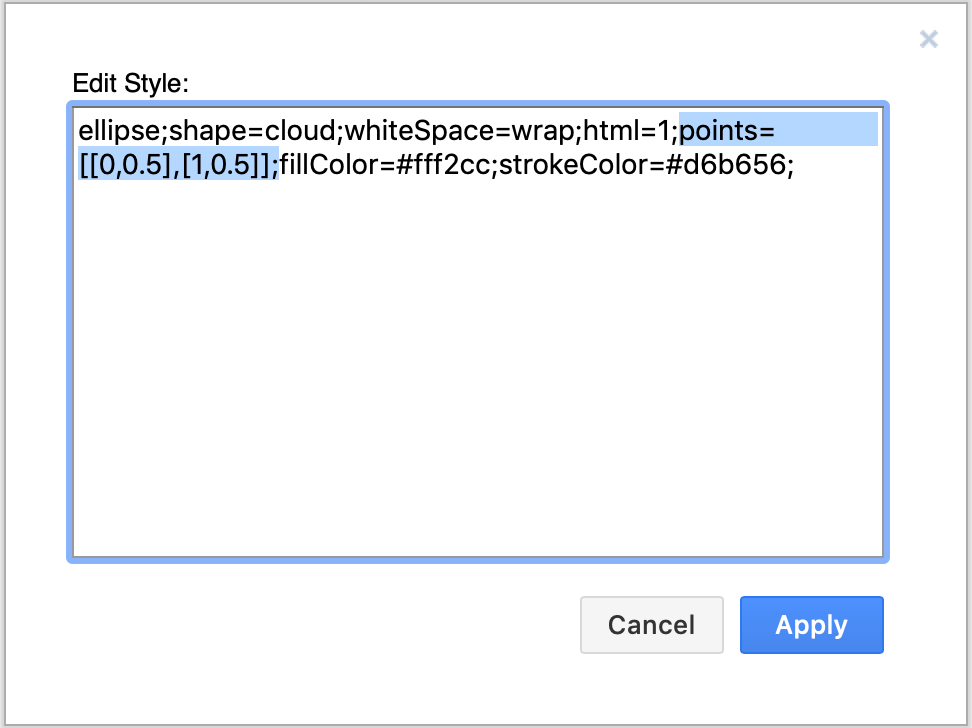
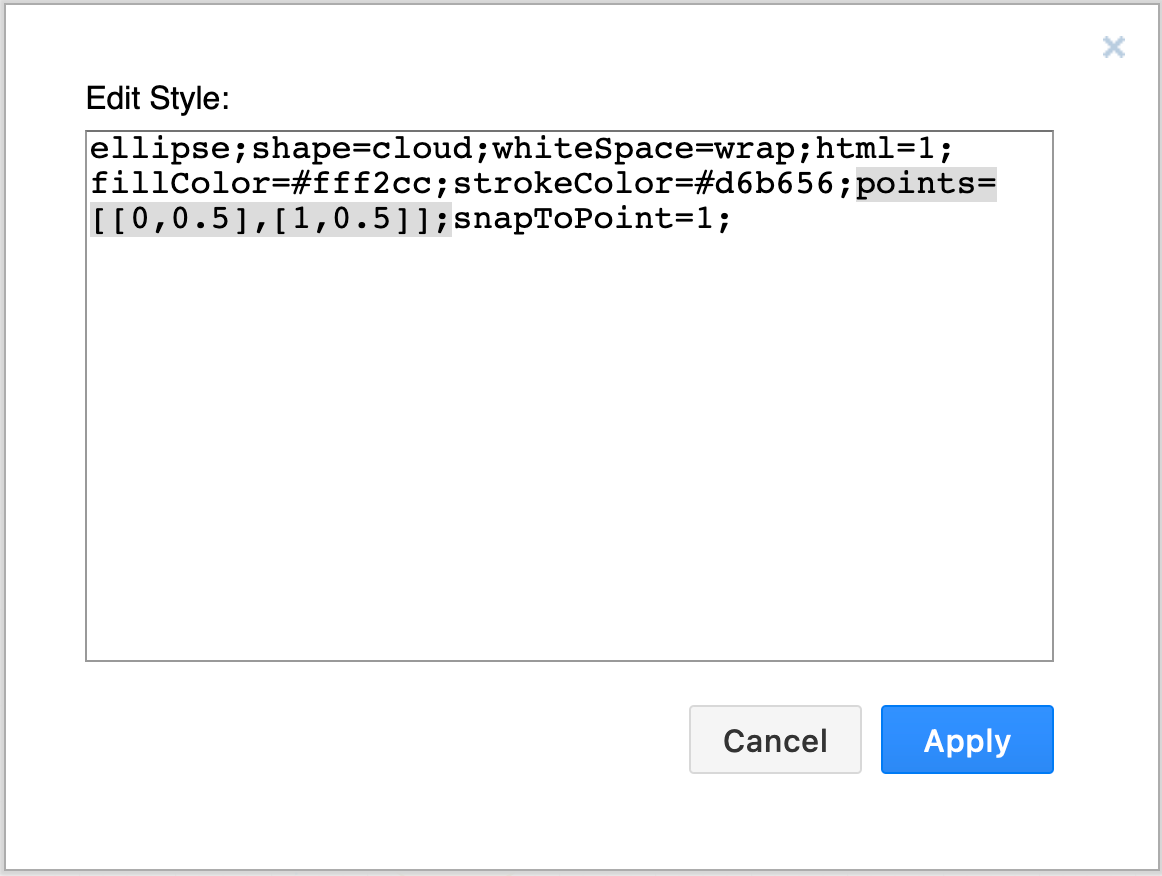
FAQ

Changed region(s): [[0.0617, 0.0907, 0.9259, 0.9066], [0.0, 0.0, 1.0, 0.9973]]

diff --git a/doc/faq/shape-connection-points-customise.md b/doc/faq/shape-connection-points-customise.md
@@ -1,0 +1,38 @@
+---
+title: Customise the connection points on a shape
+layout: page
+faq: true
+categories: [Shapes,Connectors]
+---
+
+When you hover over a shape that isn't selected, the connection points (or anchor points) are shown as small crosses.
+
+<img src="/assets/img/blog/connection-points-examples.png" style="max-width:100%;height:auto;" alt="Different shapes have different connection points">
+
+You can use the connection points on a shape to connect a **fixed connector**. When you move the shape around, the connector stays attached to exactly that connection point, it doesn't float around the perimeter of the shape. 
+
+Connection points are also used when you enable the [_snap to point_ shape property](/doc/faq/snap-to-point.html) - instead of a connector floating smoothly around the perimeter when you move it or the shape, it will _snap_ to the defined connection points. 
+
+[Learn more about connecting shapes](/doc/faq/connect-shapes.html)
+
+
+## Edit the shape style to customise connection points
+
+To customise the connection points on a shape, you can define your own custom shape style and specify exactly where the connection points should be located around the shape perimeter. The custom coordinates you specify in the shape style override the default connection points. In this way, you can add or delete connection points, or change their positions. 
+
+Add new points in ``x,y`` pairs, with values between ``0`` and ``1``, which correspond to positions on the shape's outline, relative to the outer four 'corners' of the shape. Top left is ``[0,0]``, top right is ``[1,0]``, bottom left is ``[0,1]``, bottom right is ``[1,1]``.
+
+For example, you can redefine a cloud shape to have just two connection points (on the left), instead of the default connection points (on the right).
+
+<img src="/assets/img/blog/override-connection-points.png" style="width=100%;max-width:400px;height:auto;" alt="Define your own connection points by adding the points[] array to a shape's style">
+
+1. Select the shape, then click _Edit Style_ in the _Style_ tab of the format panel.
+2. Enter the new connection points in the form of an array of x,y coordinates to the shape style definition. For example, to add only two points, one to the left and one to the right: ``points=[[0,0.5],[1,0.5]];``
+<br /><img src="/assets/img/blog/edit-style-override-connection-points.png" style="width=100%;max-width:400px;height:auto;" alt="Define your own custom connection points by adding locations in the points[] array in the shape's style">
+3. Click _Apply_. 
+<br />In the example below, the [_snap to point_ shape property](/doc/faq/snap-to-point.html) has been enabled to show how the connector moves to another custom connection point as you move the shape around.
+<br /><img src="/assets/img/blog/connection-points-custom-fixed.gif" style="width=100%;max-width:400px;height:auto;" alt="When you ">
+
+You can [create your own custom shapes](/doc/faq/custom-shapes.html) in addition to simply modifying an existing shape's connection points by specifying the custom shape's foreground and background geometry, connection points, shape styles and label text.
+
+**Note:** An optional third coordinate in the ``points[]`` coordinate list may function as a toggle (outline/perimeter), or an offset to move the connection point around inside the shape or between its outline and its perimeter, but this works only on some shapes. This third coordinate is therefore only used for development purposes. 
